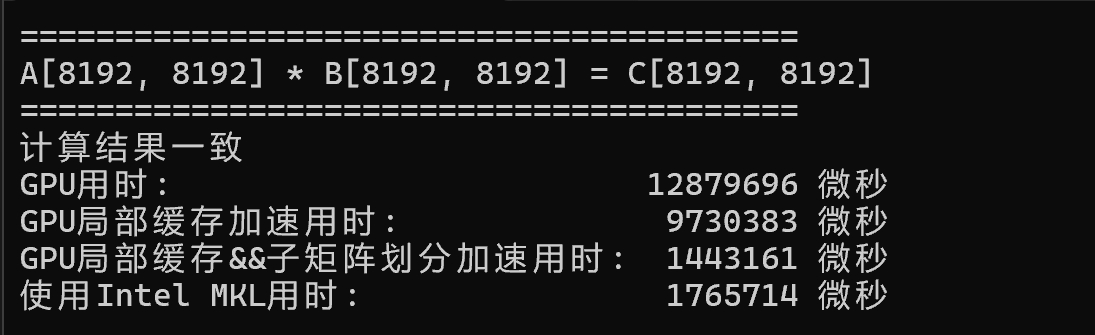
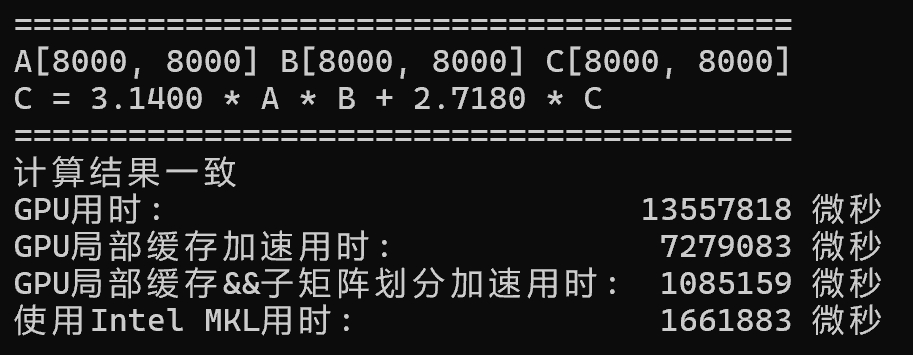
修改一些测试代码和README说明

Changed region(s): [[0.0, 0.0299, 0.9814, 0.9552]]

diff --git a/src/TestMatrixKernel.h b/src/TestMatrixKernel.h
@@ -66,11 +66,11 @@ void AdjustStringWidth(std::vector<std::string>& vecStrings, bool bIsAppend=true
 
 int TestMatrixKernel()
 {
-	int nMatrixShapeM = 3000;
-	int nMatrixShapeN = 3000;
-	int nMatrixShapeK = 3000;
-	ValueType alpha = 10;
-	ValueType beta = 5;
+	int nMatrixShapeM = 8000;
+	int nMatrixShapeN = 8000;
+	int nMatrixShapeK = 8000;
+	ValueType alpha = 3.14;
+	ValueType beta = 2.718;
 	bool bIsSame = false;
 
 	auto _Start = std::chrono::high_resolution_clock::now();
@@ -84,8 +84,9 @@ int TestMatrixKernel()
 	}
 	std::cout << "=========================================" << std::endl;
 	char strMatrixShapeInfo[128];
-	sprintf_s(strMatrixShapeInfo, sizeof(strMatrixShapeInfo), "A[%d, %d] * B[%d, %d] = C[%d, %d]",
-		nMatrixShapeM, nMatrixShapeK, nMatrixShapeK, nMatrixShapeN, nMatrixShapeM, nMatrixShapeN);
+	sprintf_s(strMatrixShapeInfo, sizeof(strMatrixShapeInfo), "A[%d, %d] B[%d, %d] C[%d, %d]\nC = %.4f * A * B + %.4f * C",
+		nMatrixShapeM, nMatrixShapeK, nMatrixShapeK, nMatrixShapeN, nMatrixShapeM, nMatrixShapeN,
+		alpha, beta);
 	std::cout << strMatrixShapeInfo << std::endl << "=========================================" << std::endl;
 
 	int nBlockSize = sqrt((double)GetMaxWorkItemSizes(pstDPCQueue));
@@ -191,8 +192,8 @@ int TestMatrixConvolution()
 {
 	int nInputM = 5000;
 	int nInputN = 5000;
-	int nKernelM = 3;
-	int nKernelN = 3;
+	int nKernelM = 4;
+	int nKernelN = 4;
 	int nOutM = nInputM - nKernelM + 1;
 	int nOutN = nInputN - nKernelN + 1;
 

diff --git a/src/TestVectorKernel.h b/src/TestVectorKernel.h
@@ -19,7 +19,6 @@ void InitVetorData(ValueType* pVector, int nSize)
 int TestVectorKernel()
 {
 	int nVectorSize = 5000000;
-	bool bIsSame = false;
 
 	sycl::queue* pstDPCQueue = CreateDPCQueue();
 	if (pstDPCQueue == nullptr)

diff --git a/README.md b/README.md
@@ -1,14 +1,15 @@
 # oneAPI学习笔记
 - 此项目记录的是`Intel oneAPI`的学习和测试代码，我的机器使用的CPU是`Intel Ultra 5 125H`，它是一款集成了GPU的SOC。
 
-  <img src=".\img\machine.png" alt="machine" style="zoom:50%;" />
+  <img src=".\img\machine.png" alt="machine" style="zoom:40%;" />
 
-- 项目中使用了3种方案来实现矩阵乘法，并调用了`Intel MKL`的接口来进行性能对比，最后利用子矩阵和改变矩阵存储顺序的优化取得了20%~60%的性能提升。
+- 项目中使用了3种方案来实现矩阵乘法，并调用了`Intel MKL`的接口来进行性能对比，最后利用子矩阵和改变矩阵存储顺序的优化取得了`53%~139%`的性能提升。
 
+  <center  class="half">
   <img src=".\img\small_matrixmulti.png" alt="small_matrixmulti" style="zoom:50%;" />
-
   <img src=".\img\big_matrixmulti.png" alt="big_matrixmulti" style="zoom:50%;" />
+  </center>
 
 - 另外还实现了矩阵的卷积运算，测试结果如下
 
-  <img src=".\img\matrixconv.png" alt="matrixconv" style="zoom:50%;" />
+  <img src=".\img\matrixconv.png" alt="matrixconv" style="zoom:70%;" />
